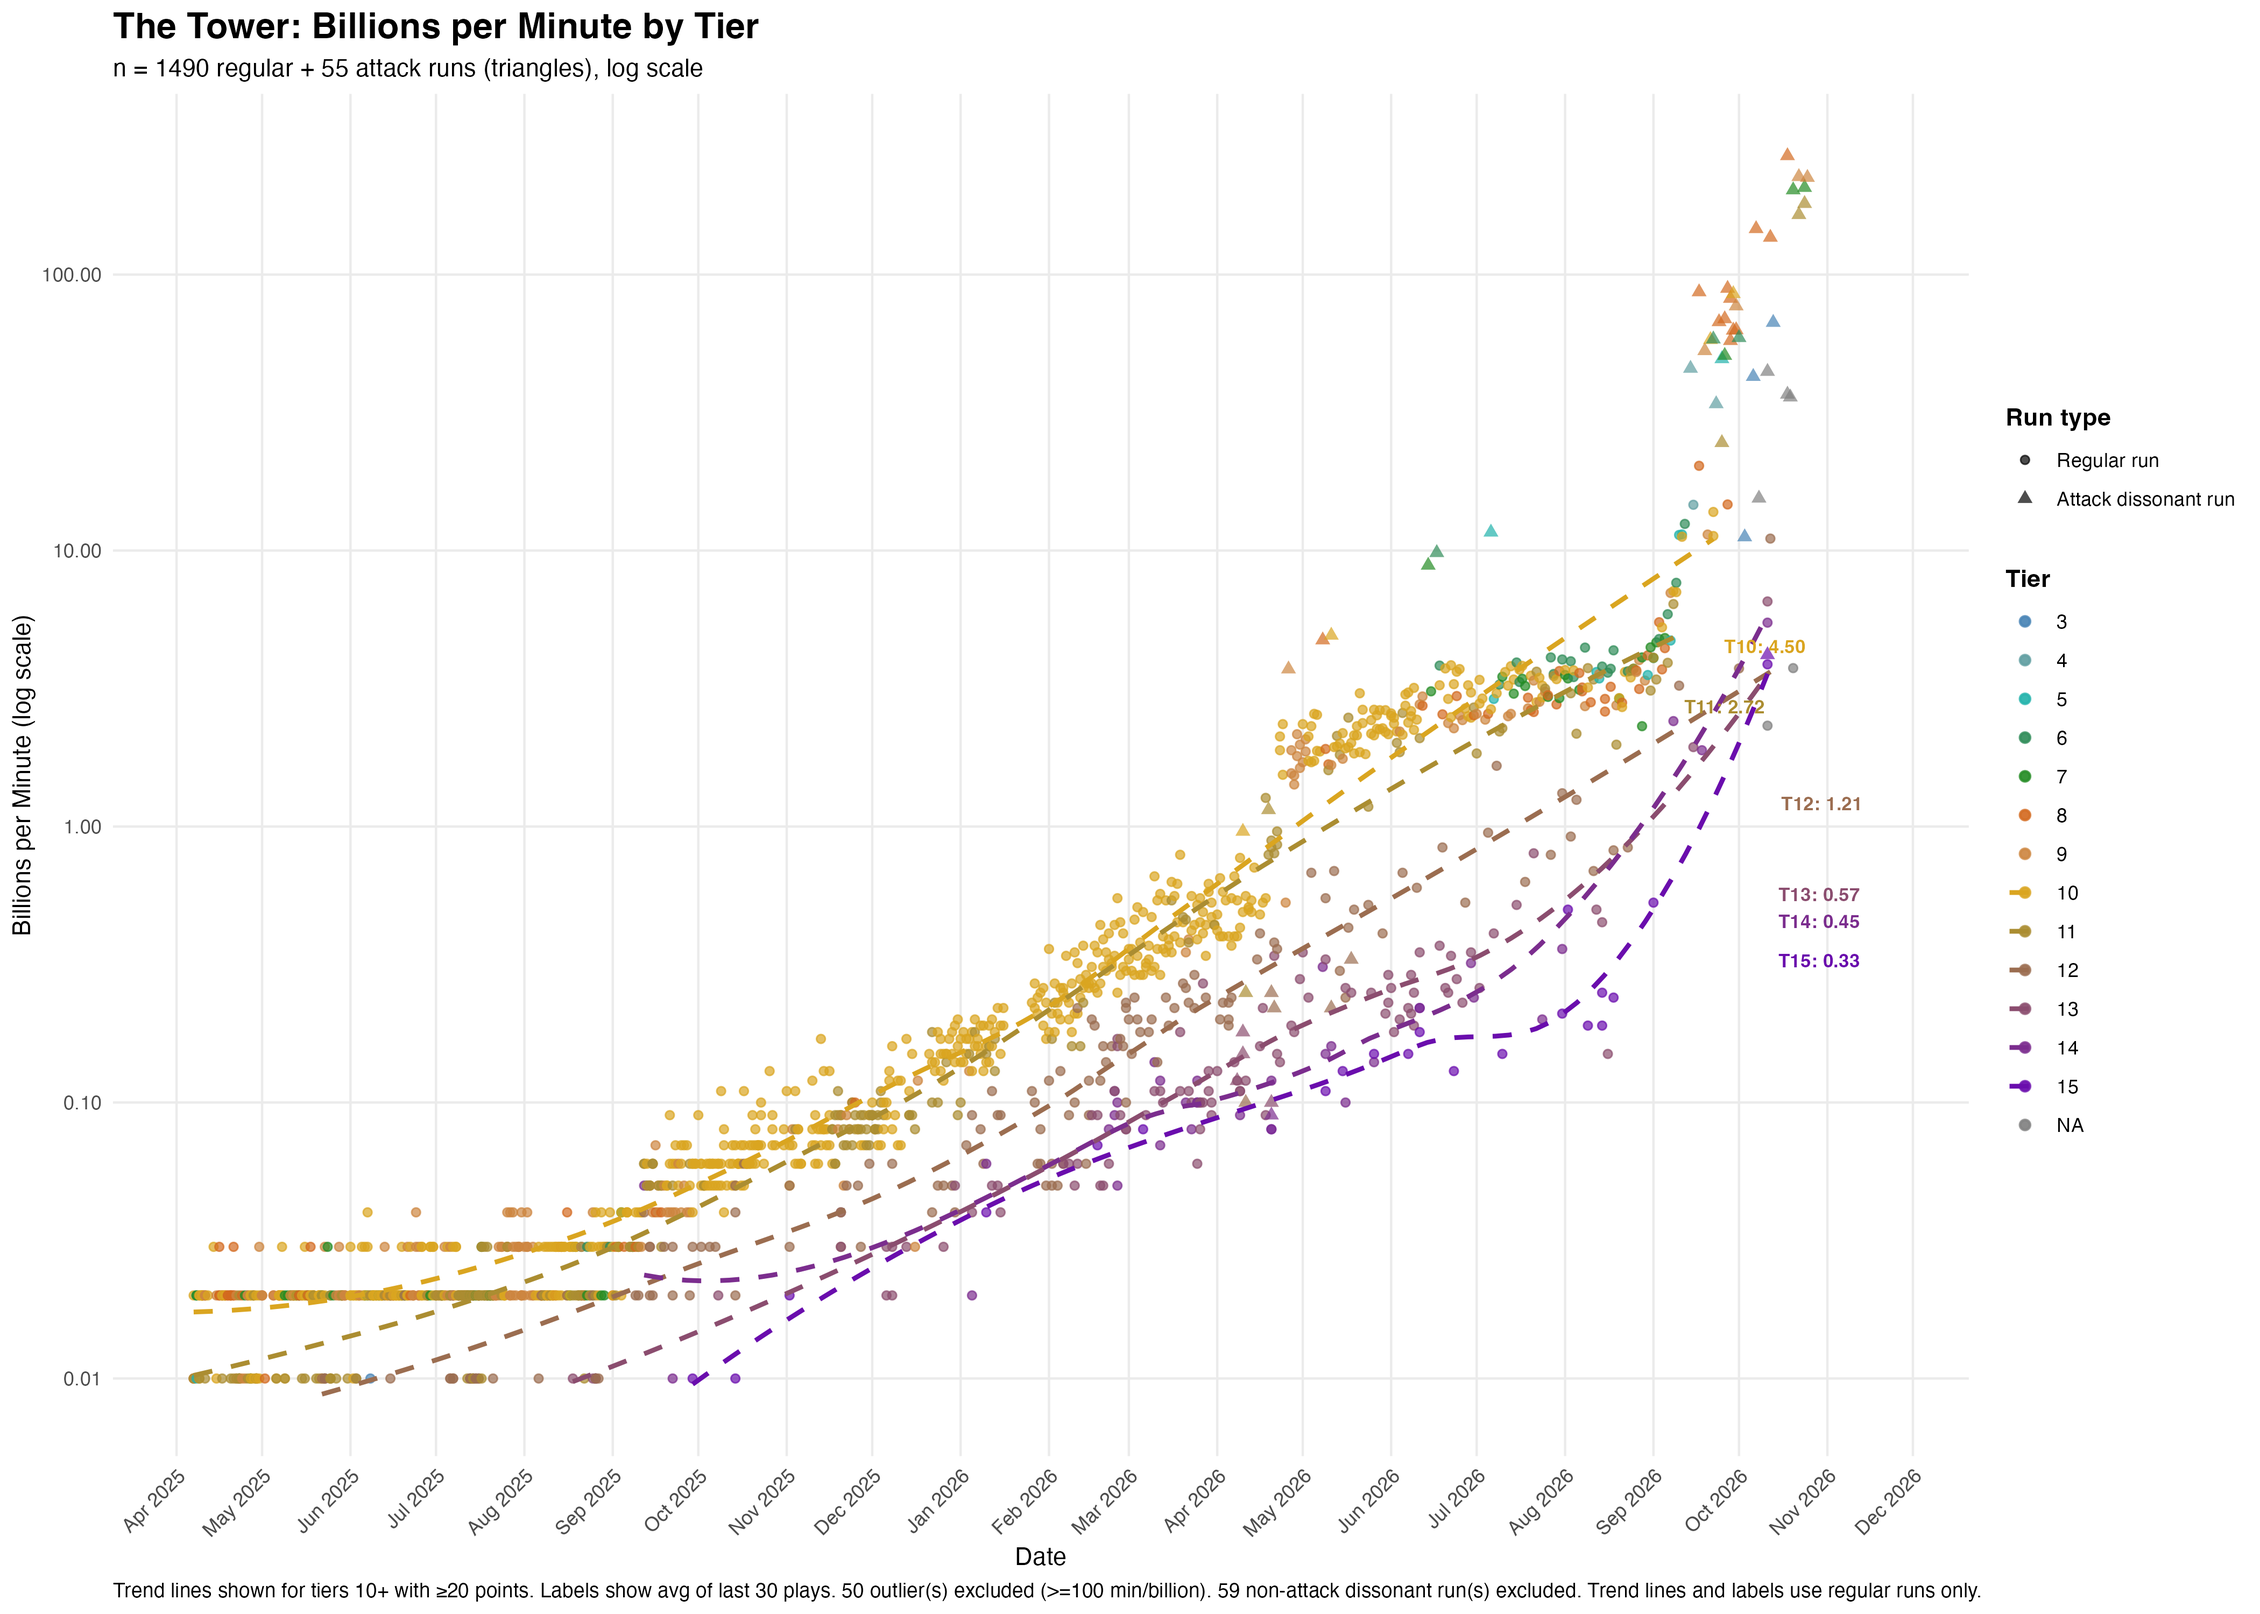
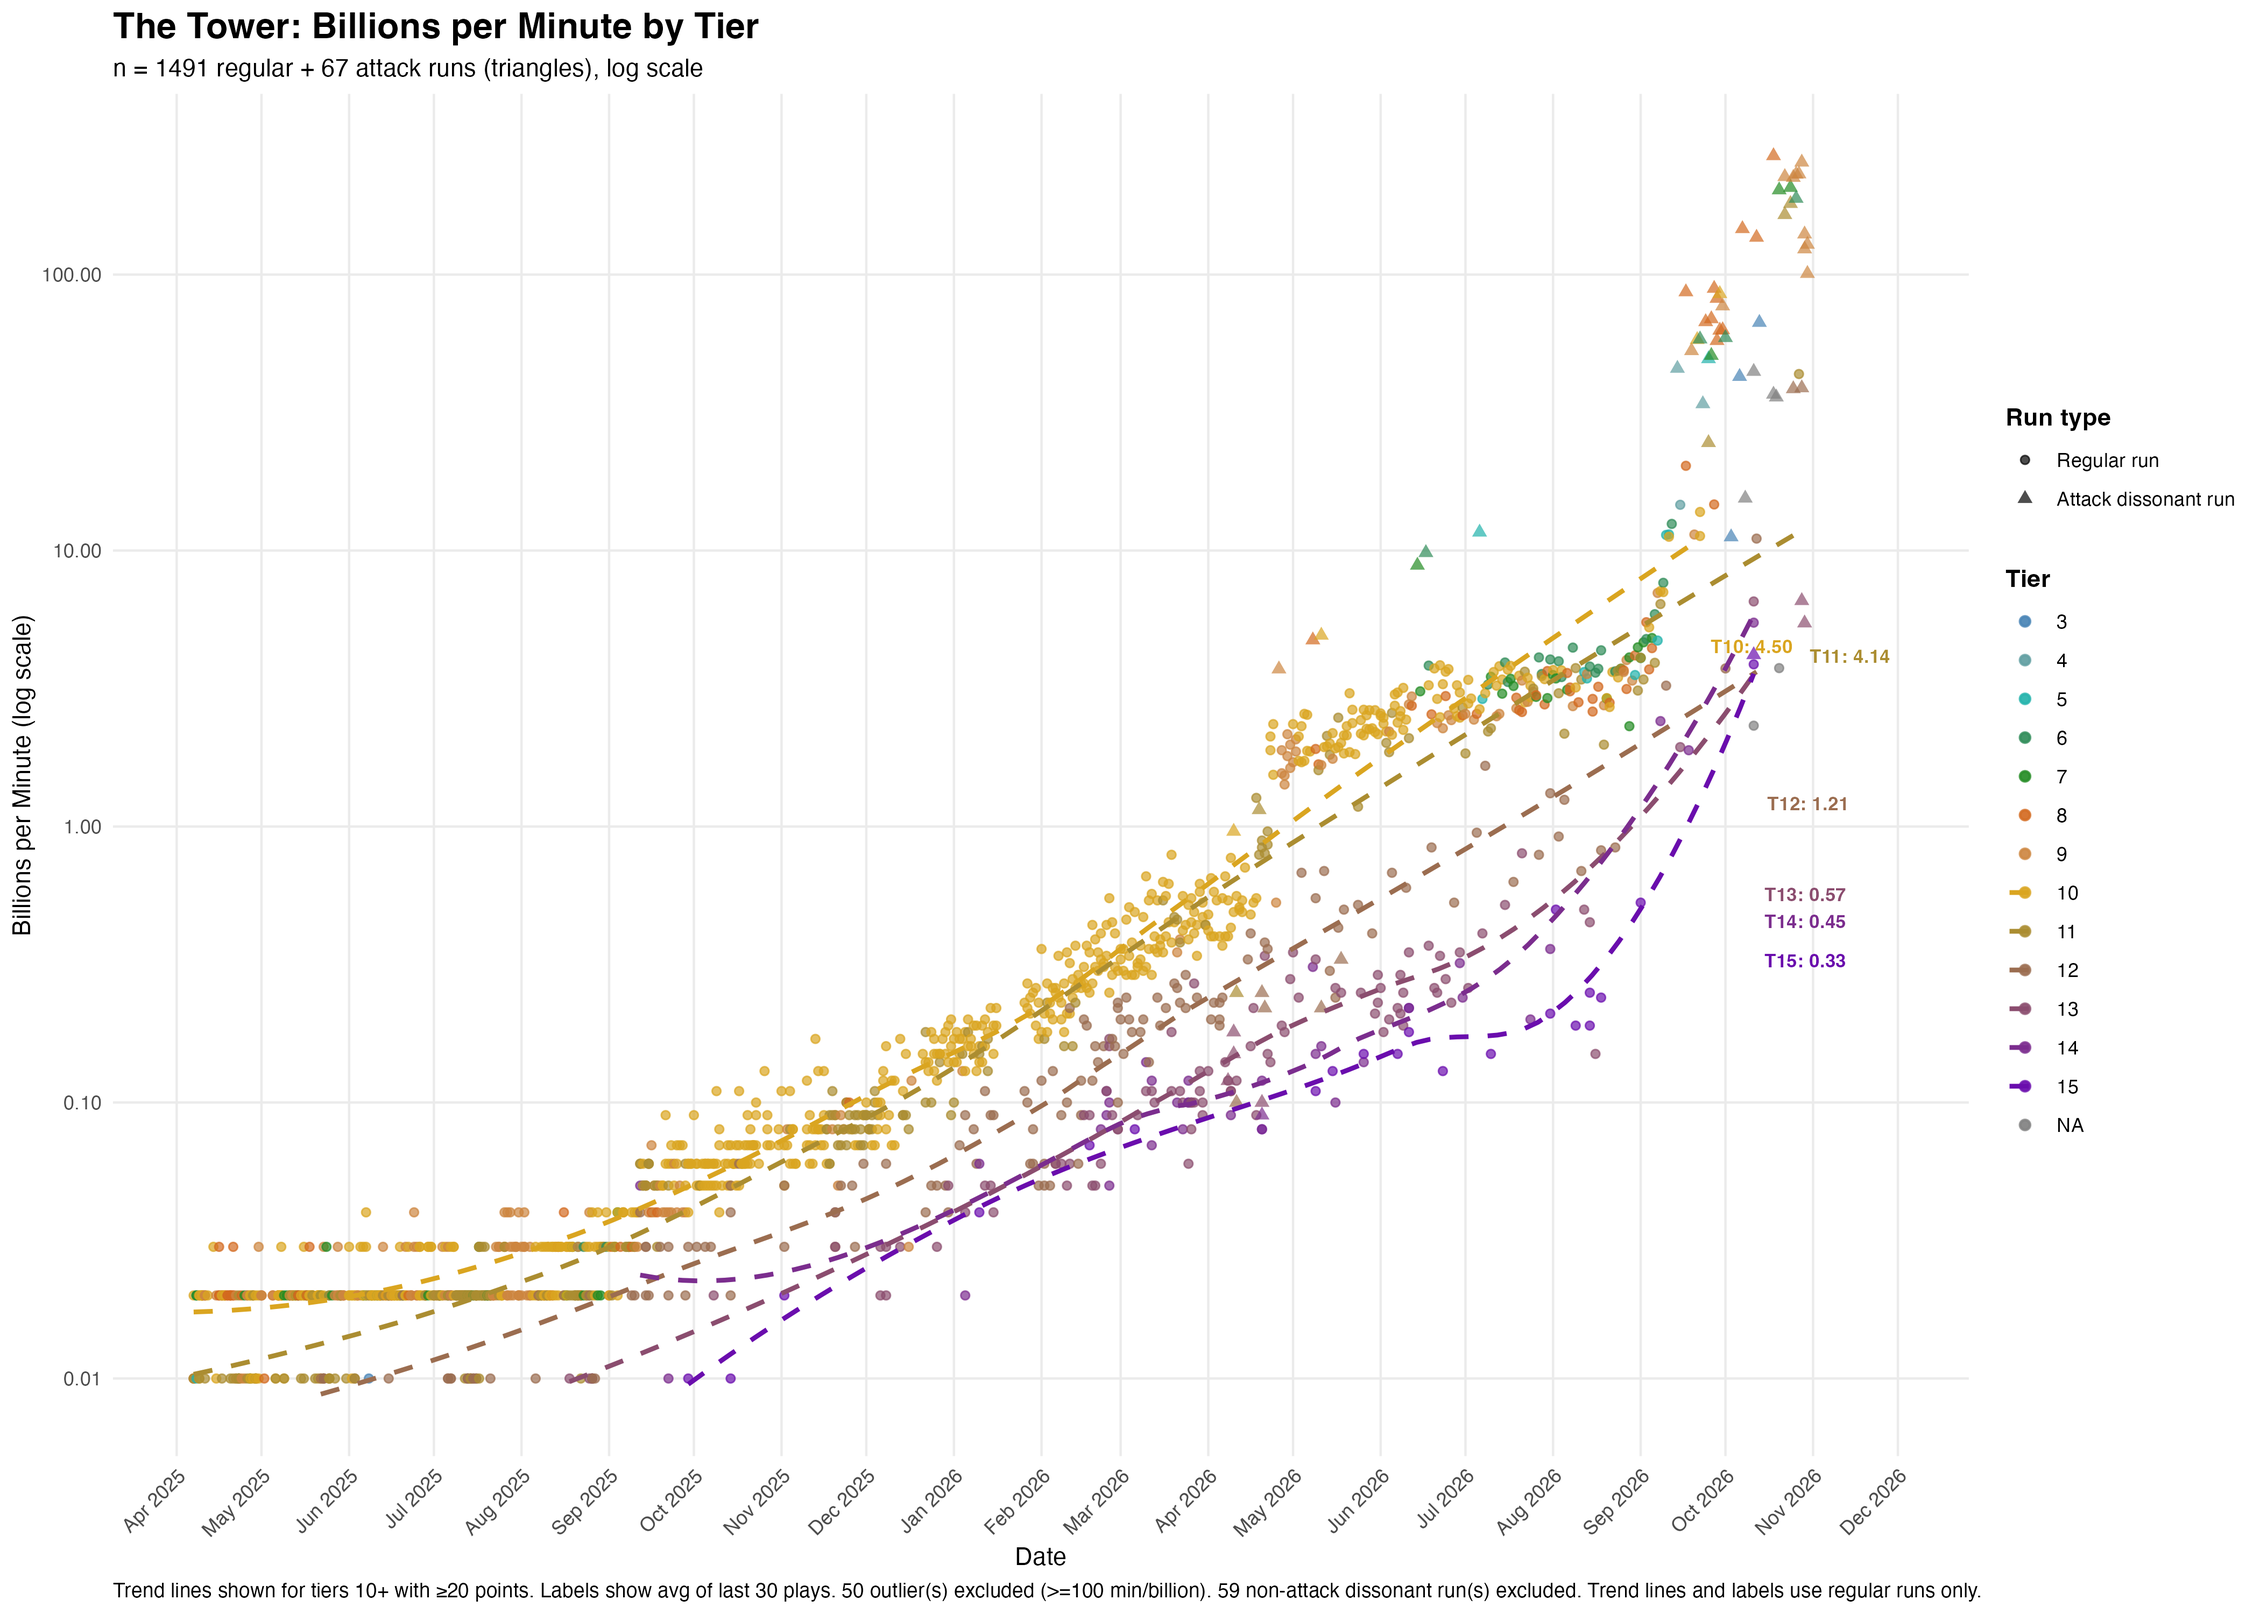
🏎 [games] The Tower: update data and graphs

diff --git a/individuals/chicks/games/the-tower/README.md b/individuals/chicks/games/the-tower/README.md
@@ -32,7 +32,7 @@ this repo.
 | 14 | 8 | 888.6 | 0h57m | 1h49m | 111.1 | 595.0 | 2.60 | 83.3 |
 | 13 | 25 | 2,527.2 | 2h02m | 3h25m | 101.1 | 1340.0 | 3.37 | 38.0 |
 | 12 | 17 | 9,139.4 | 4h56m | 6h11m | 537.6 | 3420.0 | 1.05 | 107.8 |
-| 11 | 23 | 34,114.4 | 8h04m | 8h45m | 1483.2 | 2939.8 | 0.36 | 184.1 |
+| 11 | 24 | 55,744.4 | 8h04m | 8h45m | 2322.7 | 21630.0 | 0.34 | 285.4 |
 | 10 | 58 | 126,705.0 | 9h57m | 10h17m | 2184.6 | 7800.0 | 0.31 | 221.6 |
 | 9 | 23 | 51,148.3 | 11h01m | 11h47m | 2223.8 | 7100.0 | 0.34 | 203.7 |
 | 8 | 27 | 80,262.9 | 11h49m | 12h51m | 2972.7 | 13350.0 | 0.30 | 255.0 |
@@ -40,7 +40,7 @@ this repo.
 | 6 | 19 | 78,400.0 | 15h04m | 15h39m | 4126.3 | 10590.0 | 0.24 | 277.6 |
 | 5 | 7 | 38,297.8 | 15h56m | 17h16m | 5471.1 | 10480.0 | 0.23 | 351.9 |
 | 4 | 1 | 14,480.0 | 16h29m | 16h29m | 14480.0 | 14480.0 | 0.07 | 878.8 |
-| **All** | **241** | **485,051.8** | **8h50m** | **17h16m** | **2012.7** | **14480.0** | **0.98** | **187.9** |
+| **All** | **242** | **506,681.8** | **8h50m** | **17h16m** | **2093.7** | **21630.0** | **0.98** | **198.0** |
 
 <!-- RECENT-STATS-END -->
 
@@ -53,8 +53,8 @@ this repo.
 | Tier | Games | Total Coins (B) | Avg Duration | Max Duration | Avg Coins (B) | Max Coins (B) | Avg Wave | Max Wave |
 | ----- | ------: | --------------: | -----------: | -----------: | --------------: | --------------: | ------: | ------: |
 | T-12 | 10 | 158.8 | 0h27m | 0h54m | 15.9 | 63.5 | 611 | 772 |
-| T-8 | 71 | 3,094.0 | 2h25m | 2h59m | 43.6 | 316.7 | 1701 | 2413 |
-| **All** | **81** | **3,252.8** | **2h11m** | **2h59m** | **40.2** | **316.7** | **1566** | **2413** |
+| T-8 | 73 | 3,422.5 | 2h24m | 3h20m | 46.9 | 326.4 | 1719 | 2418 |
+| **All** | **83** | **3,581.3** | **2h10m** | **3h20m** | **43.1** | **326.4** | **1585** | **2418** |
 
 <!-- RECENT-TOURNAMENT-STATS-END -->
 
@@ -102,69 +102,69 @@ has been since that run was done.
 
 <!-- Auto-generated by analyze-playlog.R — do not edit between these markers -->
 
-### Recent Dissonant Run Statistics (as of 2026-10-25)
+### Recent Dissonant Run Statistics (as of 2026-10-30)
 
 Latest dissonant run per tier and category. `Pct of Max` = Finish Wave / Max Wave for that tier.
 
 | Tier | Category | Last Run | Finish Wave | Max Wave | Pct of Max | Days Since |
 | ----- | -------- | -------- | ----------: | -------: | ---------: | ---------: |
-| 15 | Attack | 2026-10-11 | 163 | 327 | 49.8% | 14 |
-| 14 | Attack | 2026-04-20 | 104 | 493 | 21.1% | 188 |
-| 14 | Defense | 2026-04-13 | 34 | 493 | 6.9% | 195 |
-| 14 | Utility | 2026-04-20 | 226 | 493 | 45.8% | 188 |
-| 14 | Ultimate Weapons | 2026-04-13 | 298 | 493 | 60.4% | 195 |
-| 13 | Attack | 2026-04-20 | 315 | 1460 | 21.6% | 188 |
-| 13 | Defense | 2026-10-20 | 545 | 2718 | 20.1% | 5 |
-| 13 | Utility | 2026-04-10 | 611 | 1460 | 41.8% | 198 |
-| 13 | Ultimate Weapons | 2026-04-10 | 581 | 1460 | 39.8% | 198 |
-| 12 | Attack | 2026-05-18 | 798 | 3118 | 25.6% | 160 |
-| 12 | Defense | 2026-05-18 | 720 | 3118 | 23.1% | 160 |
-| 12 | Utility | 2026-05-18 | 1828 | 3118 | 58.6% | 160 |
-| 12 | Ultimate Weapons | 2026-05-18 | 1387 | 3118 | 44.5% | 160 |
-| 11 | Attack | 2026-10-24 | 5736 | 6187 | 92.7% | 1 |
-| 11 | Defense | 2026-10-22 | 3308 | 6187 | 53.5% | 3 |
-| 11 | Utility | 2026-10-23 | 4240 | 6187 | 68.5% | 2 |
-| 11 | Ultimate Weapons | 2026-10-23 | 4781 | 6187 | 77.3% | 2 |
-| 10 | Attack | 2026-09-29 | 6879 | 7569 | 90.9% | 26 |
-| 10 | Defense | 2026-10-21 | 4715 | 7569 | 62.3% | 4 |
-| 10 | Utility | 2026-10-23 | 5209 | 7569 | 68.8% | 2 |
-| 10 | Ultimate Weapons | 2026-09-21 | 5464 | 7569 | 72.2% | 34 |
-| 9 | Attack | 2026-10-25 | 8928 | 9038 | 98.8% | 0 |
-| 9 | Defense | 2026-10-21 | 5183 | 8160 | 63.5% | 4 |
-| 9 | Utility | 2026-09-18 | 5200 | 8160 | 63.7% | 37 |
-| 9 | Ultimate Weapons | 2026-09-18 | 6056 | 8160 | 74.2% | 37 |
-| 8 | Attack | 2026-10-18 | 9779 | 9737 | 100.4% | 7 |
-| 8 | Defense | 2026-10-21 | 5334 | 9779 | 54.5% | 4 |
-| 8 | Utility | 2026-09-15 | 5320 | 8788 | 60.5% | 40 |
-| 8 | Ultimate Weapons | 2026-09-16 | 6643 | 8788 | 75.6% | 39 |
-| 7 | Attack | 2026-10-24 | 11461 | 11169 | 102.6% | 1 |
-| 7 | Defense | 2026-10-02 | 5184 | 9450 | 54.9% | 23 |
-| 7 | Utility | 2026-10-15 | 6414 | 9450 | 67.9% | 10 |
-| 7 | Ultimate Weapons | 2026-06-13 | 6087 | 6096 | 99.9% | 134 |
-| 6 | Attack | 2026-10-01 | 11723 | 11246 | 104.2% | 24 |
-| 6 | Defense | 2026-10-14 | 5526 | 11723 | 47.1% | 11 |
-| 6 | Utility | 2026-06-15 | 5605 | 6344 | 88.4% | 132 |
-| 6 | Ultimate Weapons | 2026-06-16 | 7173 | 6344 | 113.1% | 131 |
-| 5 | Attack | 2026-09-25 | 12077 | 11955 | 101.0% | 30 |
-| 5 | Defense | 2026-10-13 | 5708 | 12077 | 47.3% | 12 |
-| 5 | Utility | 2026-07-03 | 6064 | 6378 | 95.1% | 114 |
-| 5 | Ultimate Weapons | 2026-07-04 | 7862 | 6378 | 123.3% | 113 |
-| 4 | Attack | 2026-09-23 | 13035 | 13010 | 100.2% | 32 |
-| 4 | Defense | 2026-10-14 | 5559 | 13035 | 42.6% | 11 |
-| 4 | Utility | 2026-09-12 | 6890 | 6459 | 106.7% | 43 |
-| 4 | Ultimate Weapons | 2026-09-13 | 10003 | 6890 | 145.2% | 42 |
-| 3 | Attack | 2026-10-13 | 15212 | 14506 | 104.9% | 12 |
-| 3 | Defense | 2026-10-04 | 5489 | 13017 | 42.2% | 21 |
-| 3 | Utility | 2026-10-04 | 8433 | 13017 | 64.8% | 21 |
-| 3 | Ultimate Weapons | 2026-10-05 | 12189 | 13017 | 93.6% | 20 |
-| 2 | Attack | 2026-10-11 | 14866 | 14800 | 100.4% | 14 |
-| 2 | Defense | 2026-10-09 | 5549 | 14800 | 37.5% | 16 |
-| 2 | Utility | 2026-10-09 | 9577 | 14800 | 64.7% | 16 |
-| 2 | Ultimate Weapons | 2026-10-10 | 13620 | 14800 | 92.0% | 15 |
-| 1 | Attack | 2026-10-19 | 15523 | 15322 | 101.3% | 6 |
-| 1 | Defense | 2026-10-15 | 6059 | 8722 | 69.5% | 10 |
-| 1 | Utility | 2026-10-16 | 11957 | 8722 | 137.1% | 9 |
-| 1 | Ultimate Weapons | 2026-10-17 | 15124 | 11957 | 126.5% | 8 |
-| **All** | **139 runs** | **2026-10-25** | **15523** | — | **71.0%** | **0** |
+| 15 | Attack | 2026-10-11 | 163 | 327 | 49.8% | 19 |
+| 14 | Attack | 2026-04-20 | 104 | 493 | 21.1% | 193 |
+| 14 | Defense | 2026-04-13 | 34 | 493 | 6.9% | 200 |
+| 14 | Utility | 2026-04-20 | 226 | 493 | 45.8% | 193 |
+| 14 | Ultimate Weapons | 2026-04-13 | 298 | 493 | 60.4% | 200 |
+| 13 | Attack | 2026-10-29 | 769 | 4074 | 18.9% | 1 |
+| 13 | Defense | 2026-10-20 | 545 | 2718 | 20.1% | 10 |
+| 13 | Utility | 2026-04-10 | 611 | 1460 | 41.8% | 203 |
+| 13 | Ultimate Weapons | 2026-04-10 | 581 | 1460 | 39.8% | 203 |
+| 12 | Attack | 2026-10-28 | 3485 | 4074 | 85.5% | 2 |
+| 12 | Defense | 2026-05-18 | 720 | 3118 | 23.1% | 165 |
+| 12 | Utility | 2026-05-18 | 1828 | 3118 | 58.6% | 165 |
+| 12 | Ultimate Weapons | 2026-05-18 | 1387 | 3118 | 44.5% | 165 |
+| 11 | Attack | 2026-10-24 | 5736 | 6187 | 92.7% | 6 |
+| 11 | Defense | 2026-10-22 | 3308 | 6187 | 53.5% | 8 |
+| 11 | Utility | 2026-10-23 | 4240 | 6187 | 68.5% | 7 |
+| 11 | Ultimate Weapons | 2026-10-23 | 4781 | 6187 | 77.3% | 7 |
+| 10 | Attack | 2026-09-29 | 6879 | 7569 | 90.9% | 31 |
+| 10 | Defense | 2026-10-21 | 4715 | 7569 | 62.3% | 9 |
+| 10 | Utility | 2026-10-23 | 5209 | 7569 | 68.8% | 7 |
+| 10 | Ultimate Weapons | 2026-09-21 | 5464 | 7569 | 72.2% | 39 |
+| 9 | Attack | 2026-10-30 | 7165 | 9198 | 77.9% | 0 |
+| 9 | Defense | 2026-10-21 | 5183 | 8160 | 63.5% | 9 |
+| 9 | Utility | 2026-09-18 | 5200 | 8160 | 63.7% | 42 |
+| 9 | Ultimate Weapons | 2026-09-18 | 6056 | 8160 | 74.2% | 42 |
+| 8 | Attack | 2026-10-18 | 9779 | 9737 | 100.4% | 12 |
+| 8 | Defense | 2026-10-21 | 5334 | 9779 | 54.5% | 9 |
+| 8 | Utility | 2026-09-15 | 5320 | 8788 | 60.5% | 45 |
+| 8 | Ultimate Weapons | 2026-09-16 | 6643 | 8788 | 75.6% | 44 |
+| 7 | Attack | 2026-10-24 | 11461 | 11169 | 102.6% | 6 |
+| 7 | Defense | 2026-10-02 | 5184 | 9450 | 54.9% | 28 |
+| 7 | Utility | 2026-10-15 | 6414 | 9450 | 67.9% | 15 |
+| 7 | Ultimate Weapons | 2026-06-13 | 6087 | 6096 | 99.9% | 139 |
+| 6 | Attack | 2026-10-26 | 13908 | 11723 | 118.6% | 4 |
+| 6 | Defense | 2026-10-14 | 5526 | 11723 | 47.1% | 16 |
+| 6 | Utility | 2026-06-15 | 5605 | 6344 | 88.4% | 137 |
+| 6 | Ultimate Weapons | 2026-06-16 | 7173 | 6344 | 113.1% | 136 |
+| 5 | Attack | 2026-09-25 | 12077 | 11955 | 101.0% | 35 |
+| 5 | Defense | 2026-10-13 | 5708 | 12077 | 47.3% | 17 |
+| 5 | Utility | 2026-07-03 | 6064 | 6378 | 95.1% | 119 |
+| 5 | Ultimate Weapons | 2026-07-04 | 7862 | 6378 | 123.3% | 118 |
+| 4 | Attack | 2026-09-23 | 13035 | 13010 | 100.2% | 37 |
+| 4 | Defense | 2026-10-14 | 5559 | 13035 | 42.6% | 16 |
+| 4 | Utility | 2026-09-12 | 6890 | 6459 | 106.7% | 48 |
+| 4 | Ultimate Weapons | 2026-09-13 | 10003 | 6890 | 145.2% | 47 |
+| 3 | Attack | 2026-10-13 | 15212 | 14506 | 104.9% | 17 |
+| 3 | Defense | 2026-10-04 | 5489 | 13017 | 42.2% | 26 |
+| 3 | Utility | 2026-10-04 | 8433 | 13017 | 64.8% | 26 |
+| 3 | Ultimate Weapons | 2026-10-05 | 12189 | 13017 | 93.6% | 25 |
+| 2 | Attack | 2026-10-11 | 14866 | 14800 | 100.4% | 19 |
+| 2 | Defense | 2026-10-09 | 5549 | 14800 | 37.5% | 21 |
+| 2 | Utility | 2026-10-09 | 9577 | 14800 | 64.7% | 21 |
+| 2 | Ultimate Weapons | 2026-10-10 | 13620 | 14800 | 92.0% | 20 |
+| 1 | Attack | 2026-10-19 | 15523 | 15322 | 101.3% | 11 |
+| 1 | Defense | 2026-10-15 | 6059 | 8722 | 69.5% | 15 |
+| 1 | Utility | 2026-10-16 | 11957 | 8722 | 137.1% | 14 |
+| 1 | Ultimate Weapons | 2026-10-17 | 15124 | 11957 | 126.5% | 13 |
+| **All** | **151 runs** | **2026-10-30** | **15523** | — | **71.8%** | **0** |
 
 <!-- RECENT-DISSONANT-STATS-END -->
